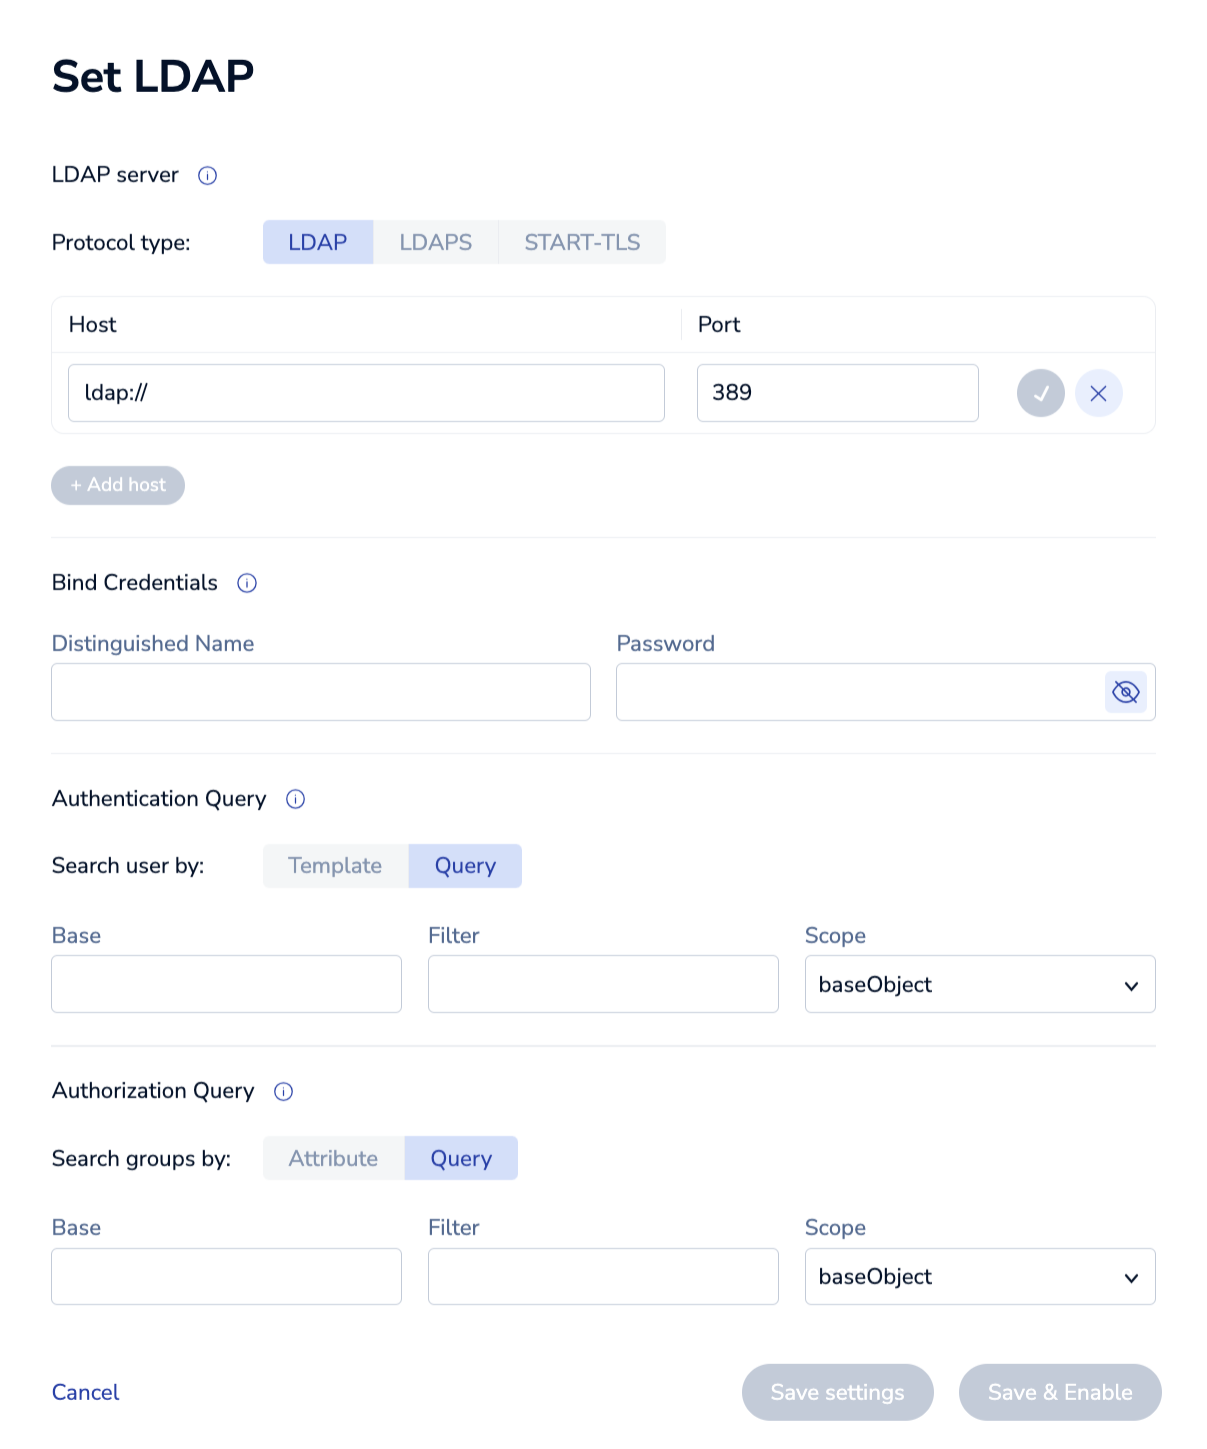
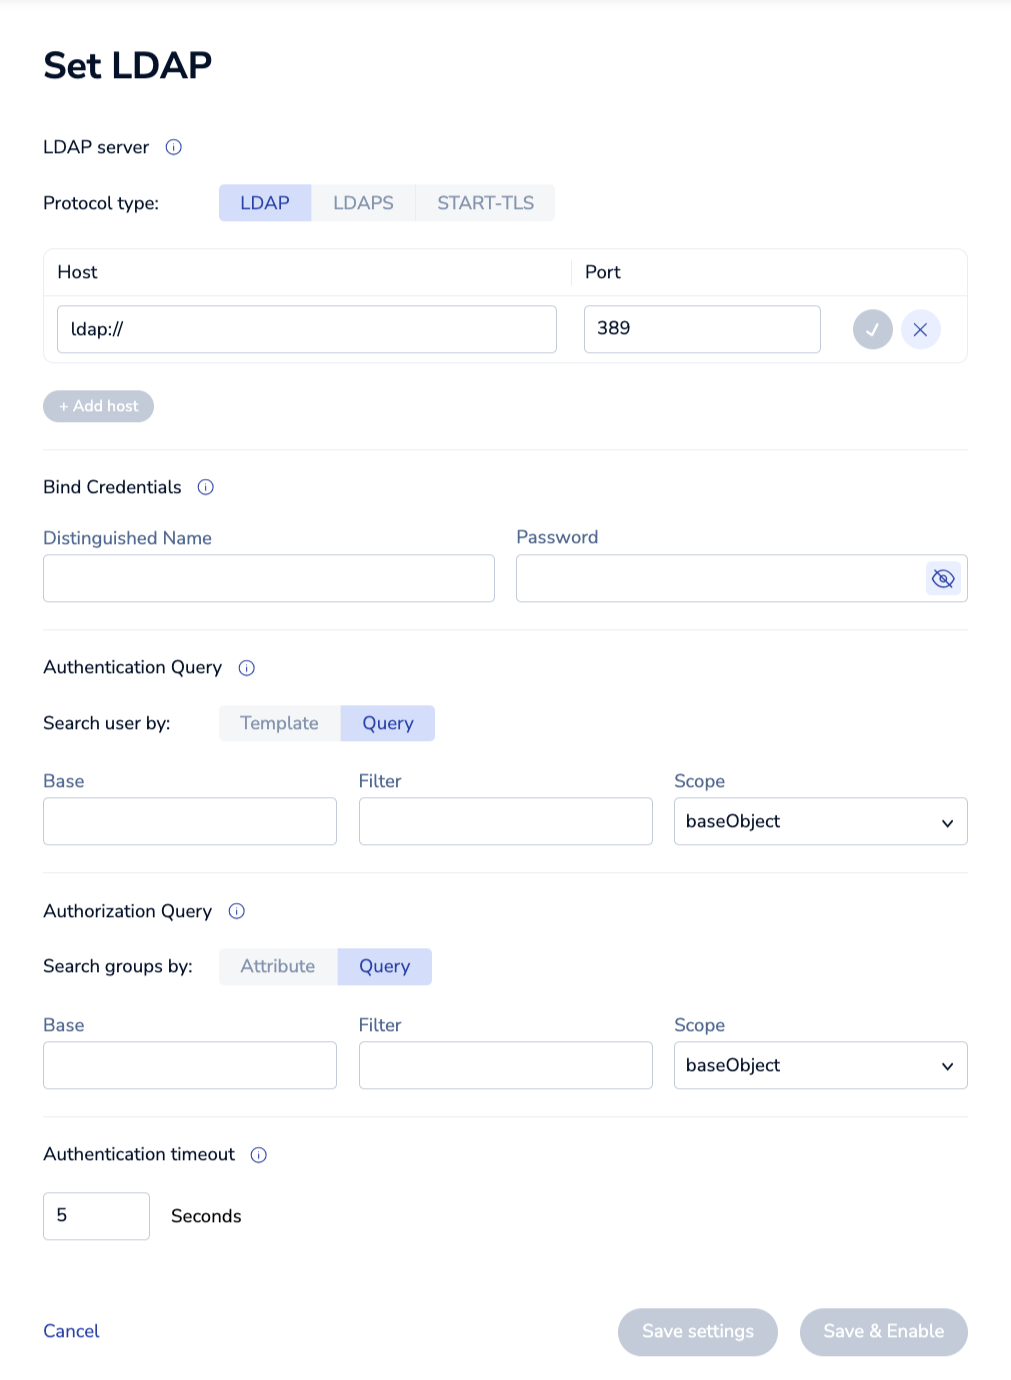
DOC-3297 LDAP auth timeout UI setting

diff --git a/content/rs/security/access-control/ldap/enable-role-based-ldap.md b/content/rs/security/access-control/ldap/enable-role-based-ldap.md
@@ -82,6 +82,14 @@ These settings define the group authorization query:
 
 In this example, `%D` is replaced by the Distinguished Name of the user attempting to access the Redis Enterprise resource.
 
+### Authentication timeout
+
+The **Authentication timeout** setting determines the connection timeout to the LDAP server during user authentication.
+
+By default, the timeout is 5 seconds, which is recommended for most cases.
+ 
+However, if you enable multi-factor authentication (MFA) for your LDAP server, you might need to increase the timeout to provide enough time for MFA verification. You can set it to any integer in the range of 5-60 seconds.
+
 ## More info
 
 - Map LDAP groups to [access control roles]({{<relref "/rs/security/access-control/ldap/map-ldap-groups-to-roles">}})
